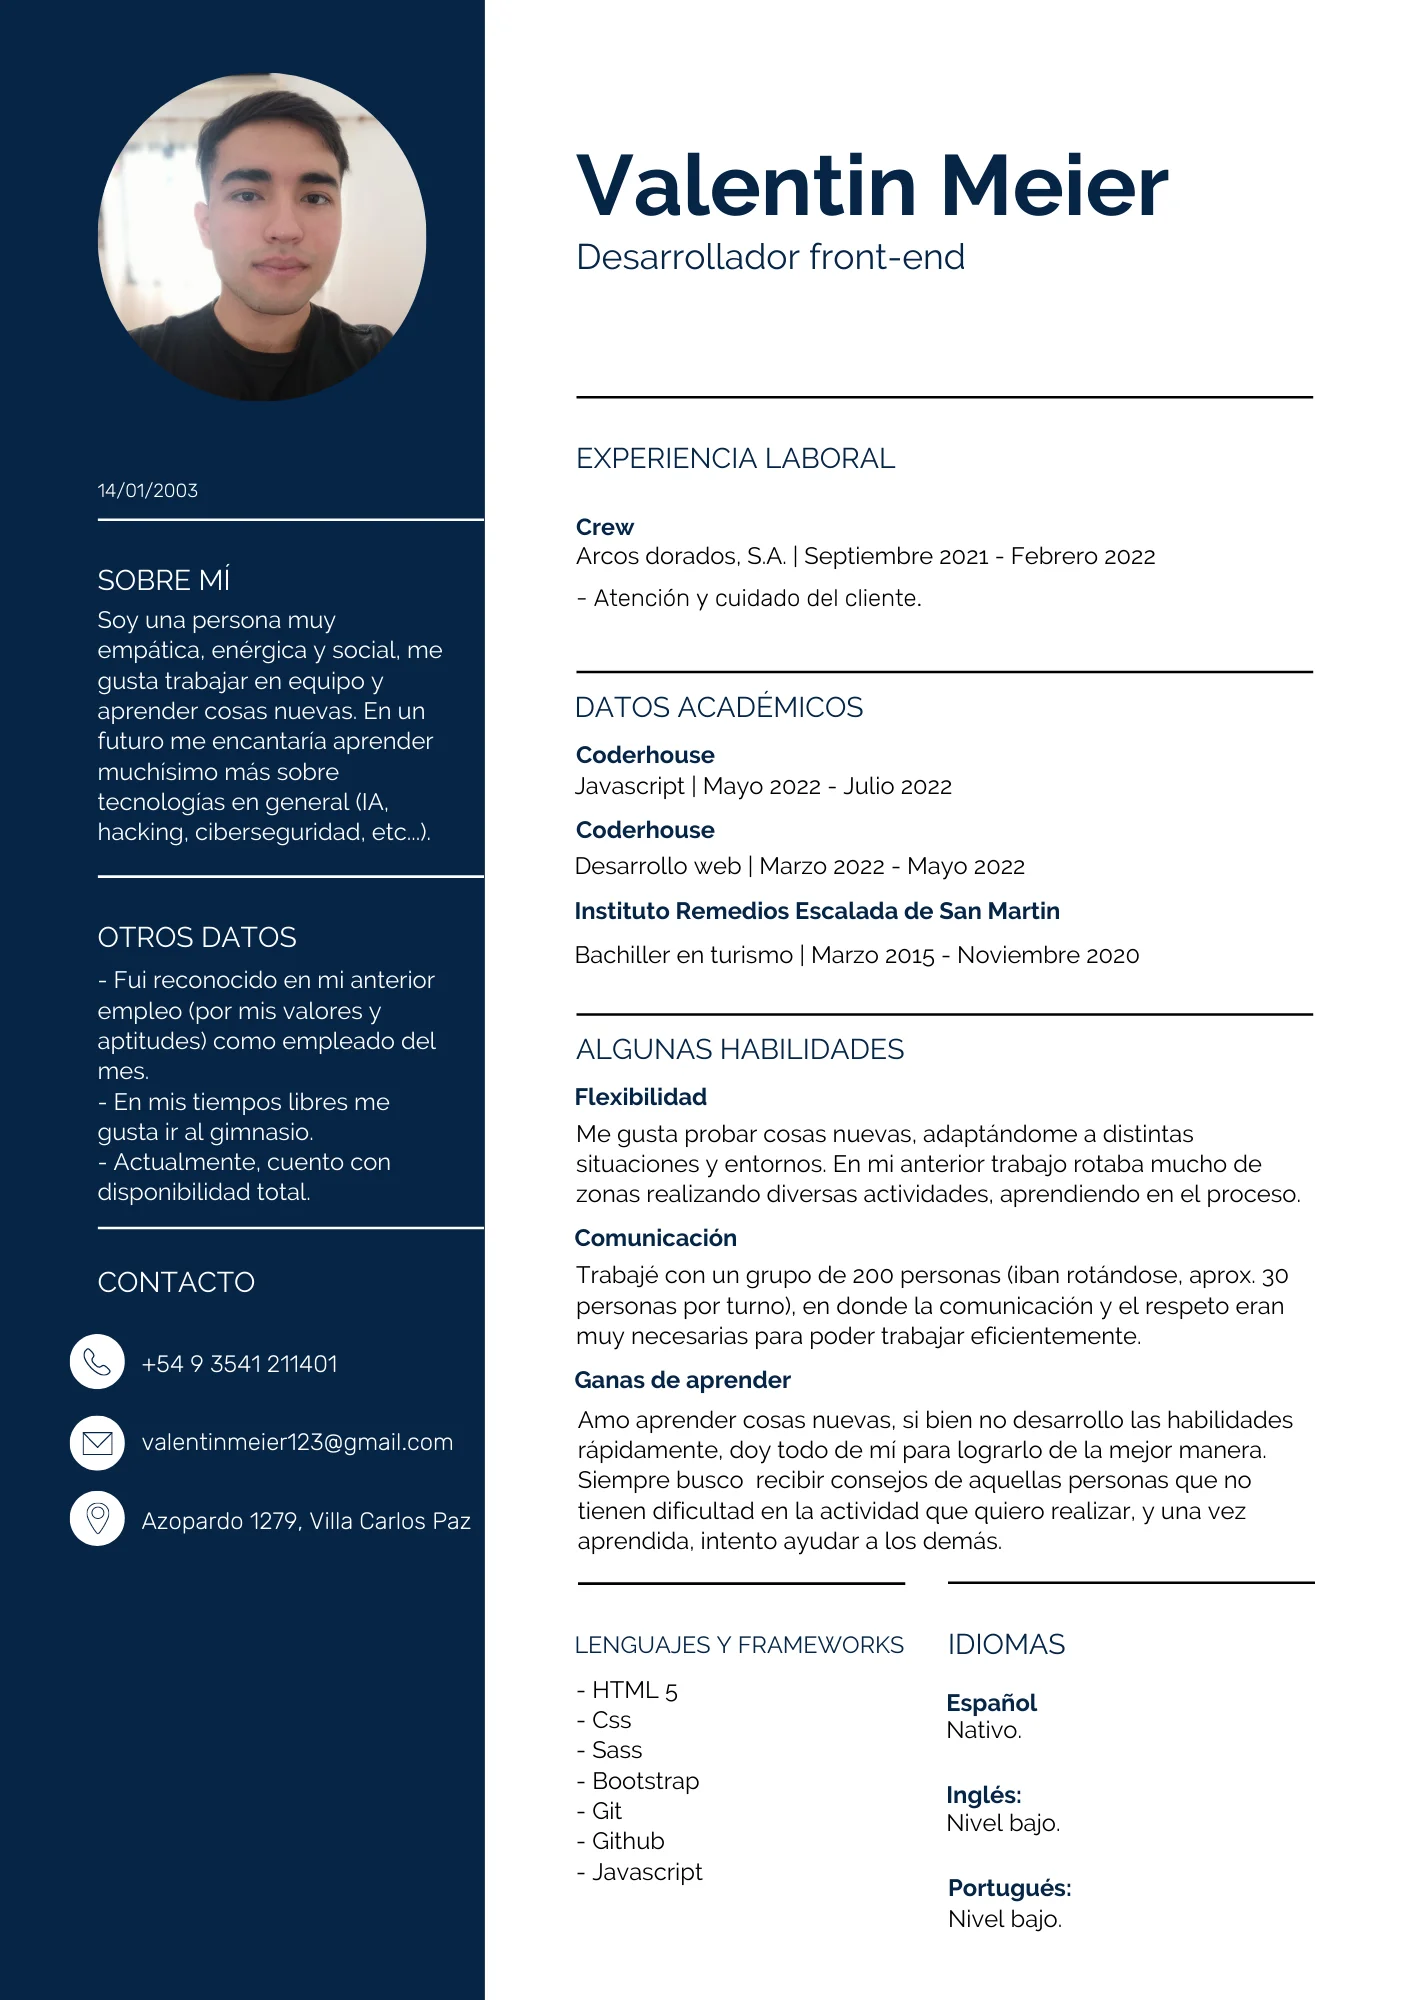
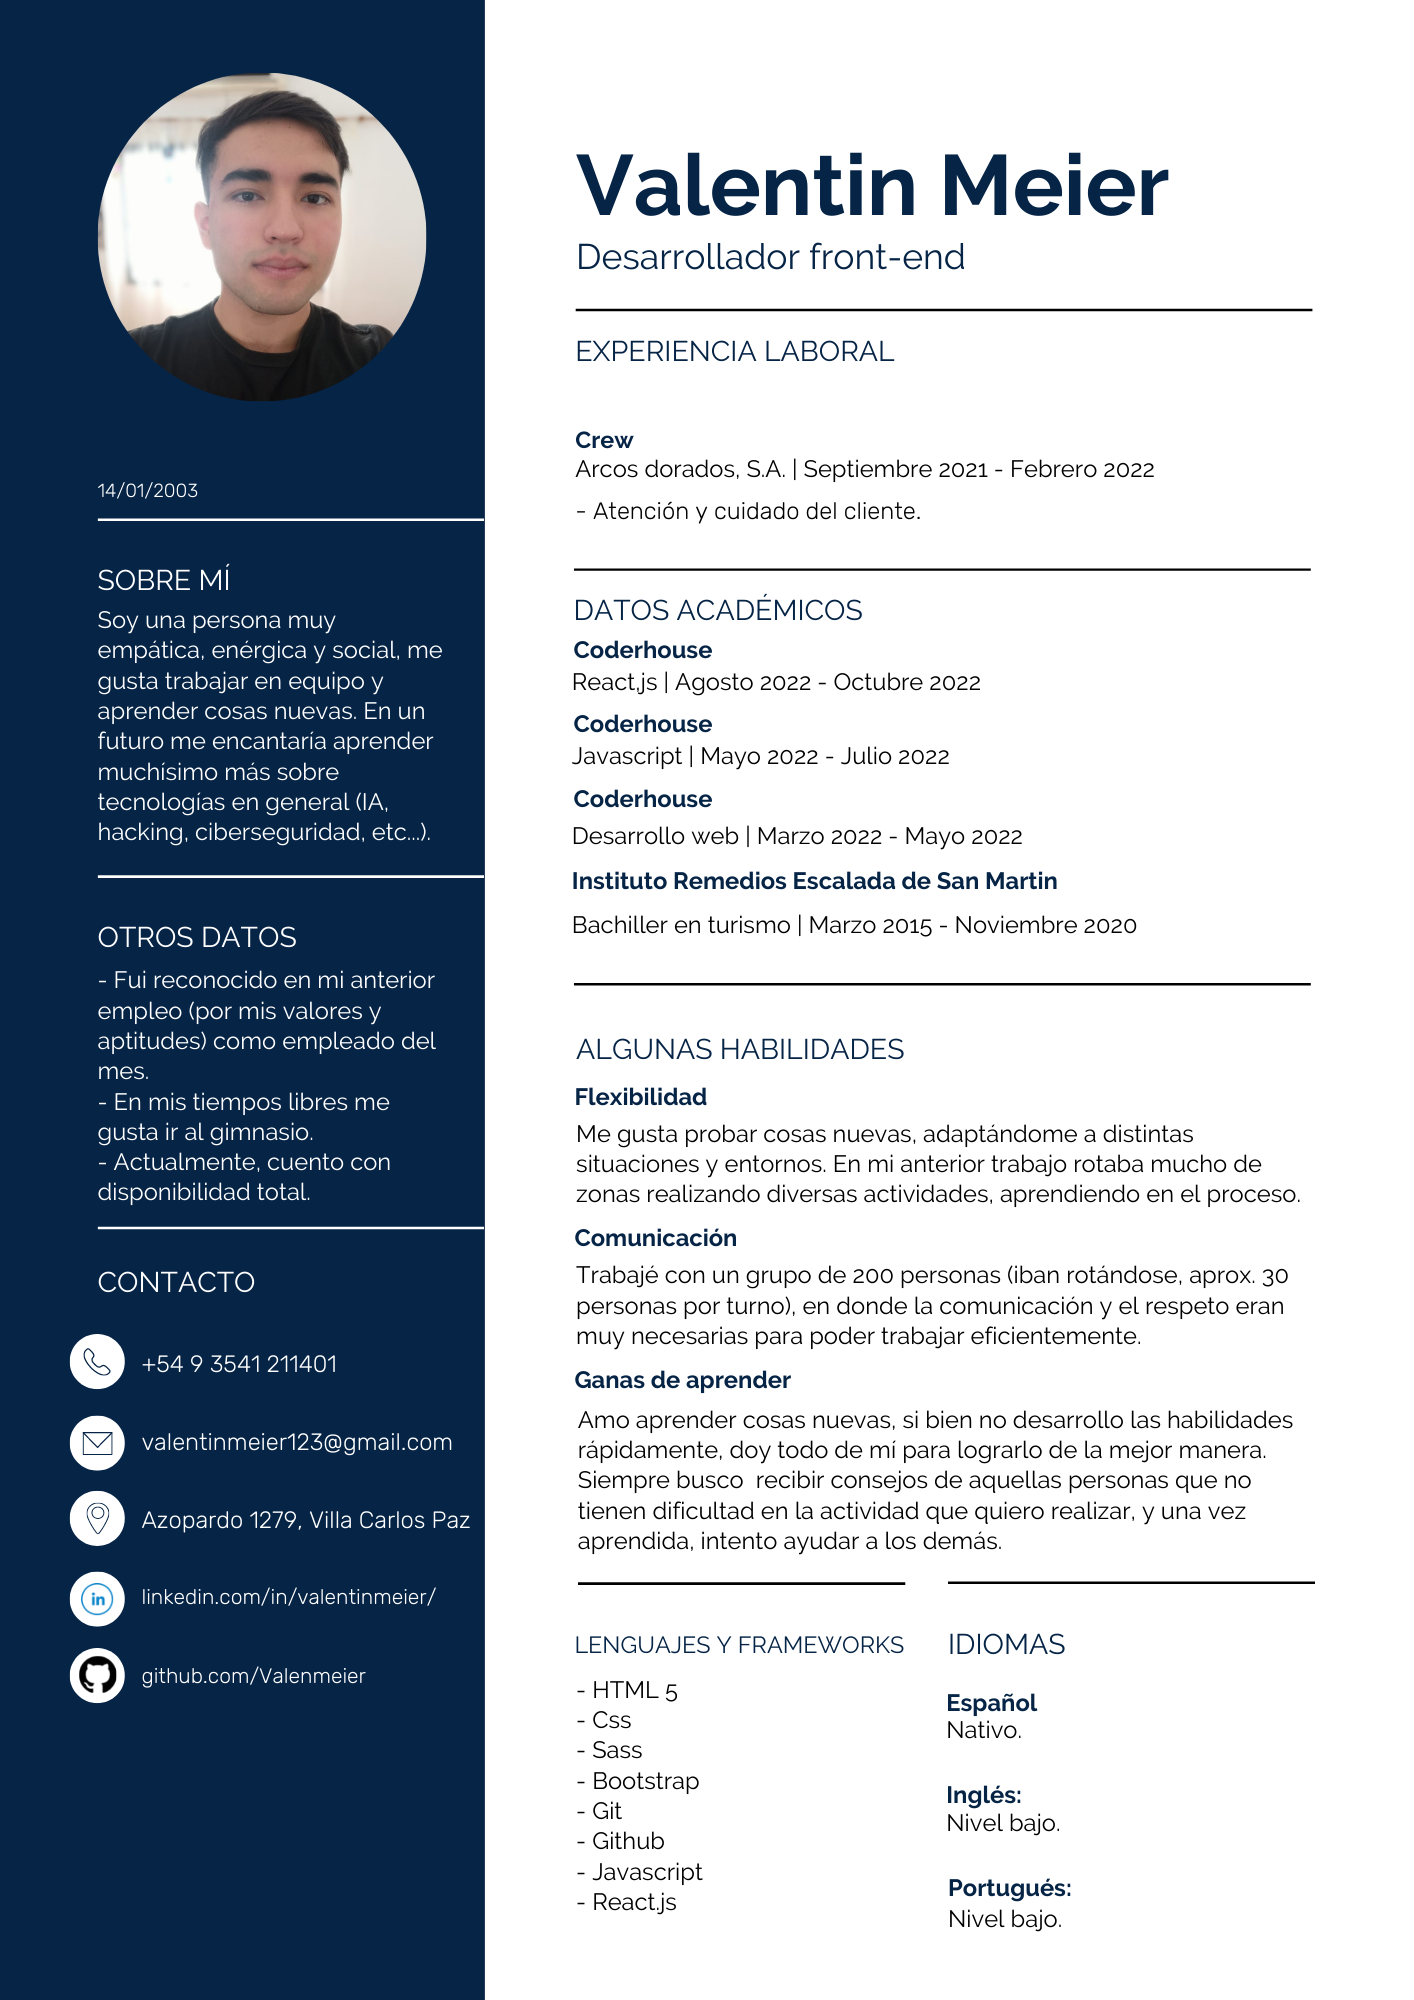
Actualizando cv

diff --git a/javascript/secciones.js b/javascript/secciones.js
@@ -23,7 +23,7 @@ let miInformacion= `<div class="main-sobreMi">
 </div>
 <p>Nací el 14/01/2003 en Córdoba-Argentina. Desde muy chiquito desarrollé el amor por la tecnología... en ese tiempo me gustaba editar videos y corromper mis jueguitos para sacar beneficios. Con el paso del tiempo fui creciendo y encontrando otras cosas que llamaban mi atención (la economía y los deportes)... pero nada me hacía sentir tan bien como cuando utilizaba la máquina y aprendía cosas nuevas, cosas únicas.<br> En estos últimos años, luego de haber finalizado la secundaria, entré en un lapso del no saber qué hacer, empecé estudiando economía, pero luego me arrepentí, no me sentía tan cómodo. Por tanto, quise buscar trabajo, pensando que así podría ser más feliz, lo conseguí (ingresé a Arcos Dorados) y la verdad que tenía razón, al principio costó muchísimo, tenía muchos compañeros (200 aproximadamente) y me sentía bastante perdido. Pero eso me motivó a aprender, cometí muchos errores (algunos más de una vez), tenía compañeros que se burlaban por esos fallos, sinceramente me sentía mal cuando me trataban así, pero siempre tomaba su burla con una sonrisa y seguía, nunca les falté el respeto a ellos. Gracias a mi esfuerzo y buen trato logré conseguir uno de mis mayores logros, el diploma de empleado del mes. </p>
 <img src="./multimedia/diploma.webp" alt="diploma empleado del mes" title="mi diploma" class="diploma">
-<p>Luego de eso decidí renunciar para poder seguir aprendiendo más cosas (siempre recordando todos los momentos y experiencias que pasé en aquel lugar), me anoté a Coderhouse, donde actualmente estoy cursando y conseguí completar 2 cursos (desarrollo web y javascript) en esos cursos desarrollé las siguientes herramientas:</p><br>
+<p>Luego de eso decidí renunciar para poder seguir aprendiendo más cosas (siempre recordando todos los momentos y experiencias que pasé en aquel lugar), me anoté a Coderhouse, donde actualmente estoy cursando y conseguí completar 3 cursos (desarrollo web, JavaScript y React.js) en esos cursos desarrollé las siguientes herramientas:</p><br>
 
 <div class="herramientas" id="habilidades">
     <i class="fa-brands fa-html5"></i>
@@ -33,6 +33,7 @@ let miInformacion= `<div class="main-sobreMi">
     <i class="fa-brands fa-github"></i>
     <i class="fa-brands fa-bootstrap"></i>
     <i class="fa-brands fa-sass"></i>
+    <i class="fa-brands fa-react"></i>
 </div><br>
 
 <p class="parrafoFinal">Como anteriormente mencioné, aún sigo cursando en Coderhouse (me faltan dos cursos para completar la carrera de full-stack), por tanto, mis habilidades van a seguir creciendo, tanto en el front-end, como en el back-end. <br>Sin nada más que decir, muchas gracias por haberme leído, espero sigas disfrutando mi portafolio.</p>
@@ -47,6 +48,16 @@ let misProyectos=`<div class="main-proyectos">
             <div class="redes">
                 <div class="git-repositorio"><a href="https://github.com/Valenmeier/Toman.es" target="_blank"><i class="fa-brands fa-github"></i></a></div>
                 <div class="git-page"><a href="https://valenmeier.github.io/Toman.es/" target="_blank"><i class="fa-solid fa-globe"></i></a></div>
+            </div>
+        </div>
+    </div>
+    <div class="JuegosGratis">
+        <img src="./multimedia/Juegosgratis.jpeg" class="imagenModal" alt="juegosgratis">
+        <div class="modalProyectos">
+            <h5>JuegosGratis pc</h5>
+            <div class="redes">
+                <div class="git-repositorio"><a href="https://github.com/Valenmeier/JuegosGratis" target="_blank"><i class="fa-brands fa-github"></i></a></div>
+                <div class="git-page"><a href="https://juegos-gratis-valenmeier.vercel.app/" target="_blank"><i class="fa-solid fa-globe"></i></a></div>
             </div>
         </div>
     </div>
@@ -80,6 +91,7 @@ let misProyectos=`<div class="main-proyectos">
             </div>
         </div>
     </div>
+    
 </div>
 </div>`
 let miCurriculum= `<div class="main-curriculum">
